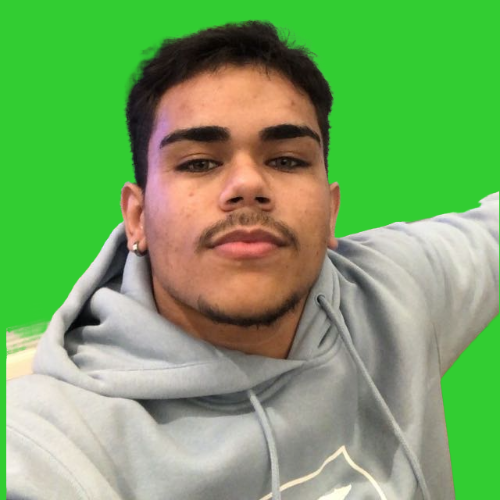
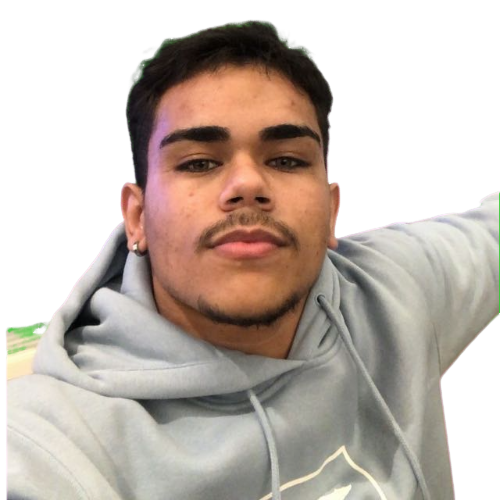
modificando apresentacao

diff --git a/js/script.js b/js/script.js
@@ -1,3 +1,5 @@
+//Adicionando link no "João Victor", link no meu nome
+
 const hamMenuBtn = document.querySelector('.header__main-ham-menu-cont')
 const smallMenu = document.querySelector('.header__sm-menu')
 const headerHamMenuBtn = document.querySelector('.header__main-ham-menu')
@@ -5,25 +7,90 @@ const headerHamMenuCloseBtn = document.querySelector('.header__main-ham-menu-clo
 const headerSmallMenuLinks = document.querySelectorAll('.header__sm-menu-link')
 
 hamMenuBtn.addEventListener('click', () => {
-    if (smallMenu.classList.contains('header__sm-menu--active')) {
-        smallMenu.classList.remove('header__sm-menu--active')
-    } else {
-        smallMenu.classList.add('header__sm-menu--active')
-    }
-    if (headerHamMenuBtn.classList.contains('d-none')) {
-        headerHamMenuBtn.classList.remove('d-none')
-        headerHamMenuCloseBtn.classList.add('d-none')
-    } else {
-        headerHamMenuBtn.classList.add('d-none')
-        headerHamMenuCloseBtn.classList.remove('d-none')
-    }
+  if (smallMenu.classList.contains('header__sm-menu--active')) {
+    smallMenu.classList.remove('header__sm-menu--active')
+  } else {
+    smallMenu.classList.add('header__sm-menu--active')
+  }
+  if (headerHamMenuBtn.classList.contains('d-none')) {
+    headerHamMenuBtn.classList.remove('d-none')
+    headerHamMenuCloseBtn.classList.add('d-none')
+  } else {
+    headerHamMenuBtn.classList.add('d-none')
+    headerHamMenuCloseBtn.classList.remove('d-none')
+  }
 })
 const headerLogoConatiner = document.querySelector('.header__logo-sub')
 headerLogoConatiner.addEventListener('click', () => {
-    location.href = 'https://putzjuau.github.io/Portfolio/'
+  location.href = 'https://putzjuau.github.io/Portfolio/'
 })
 
 const footerLink = document.querySelector('.link_footer')
 footerLink.addEventListener('click', () => {
-    location.href = 'https://putzjuau.github.io/Portfolio/'
+  location.href = 'https://putzjuau.github.io/Portfolio/'
 })
+
+const imgHeader = document.querySelector(".header__logo-img-cont");
+function themePhotografy() {
+  setTimeout(() => {
+    if (imgHeader.classList.contains("transparent-bg")){
+      imgHeader.classList.remove('transparent-bg');
+
+    } else {
+      imgHeader.classList.add("transparent-bg");
+    }
+  }, 1000);
+} 
+setInterval(themePhotografy, 10000);
+
+
+
+
+
+//mudanca de tema da pagina
+const themeToggle = document.getElementById('theme-toggle');
+themeToggle.addEventListener('click', () => {
+
+  //TODO:    Alterar o tema
+  const currentTheme = document.documentElement.getAttribute('data-theme');
+  const newTheme = currentTheme === 'escuro' ? 'claro' : 'escuro';
+  document.documentElement.setAttribute('data-theme', newTheme);
+
+
+  //?       Função a qual foi feita para trocar a imagem do tema( O sol e a lua)
+  otherImgTheme();
+
+});
+// ? sadfassadasdsadasdsa
+
+function otherImgTheme() {
+
+  const imgThemeElement = document.getElementById("img-theme");
+  const currentTheme = document.documentElement.getAttribute('data-theme');
+  const nightTheme = document.getElementById("img-theme-night");
+  const dayTheme = document.getElementById("img-theme-day");
+
+  if (currentTheme === "escuro") {
+    imgThemeElement.src = nightTheme.src;
+  }
+  if (currentTheme === "claro") {
+    imgThemeElement.src = dayTheme.src;
+  }
+
+}
+
+//funcao que deixa padrao o tema claro primeiro
+function setDefaultTheme() {
+  const currentTheme = document.documentElement.getAttribute('data-theme');
+
+  //? vericaremos se o data-theme fui atribuido ao documento
+  if (!currentTheme) { //todo:       Como de inicio não é verdadeiro, o data theme 
+    document.documentElement.setAttribute('data-theme', 'claro'); // 'claro' é o tema padrão, você pode alterar para 'escuro' se preferir
+    const imgThemeElement = document.getElementById("img-theme");
+    const dayTheme = document.getElementById("img-theme-day");
+    imgThemeElement.src = dayTheme.src;
+  }
+}
+
+setDefaultTheme();
+

diff --git a/css/style.css b/css/style.css
@@ -4,8 +4,9 @@
     --verdeEscuro: rgb(45, 166, 63);
     --preto: #0D0D0D;
     --fonte-color: #D9D9D9;
-    --header-color: #050505;
+    --header-color: linear-gradient(rgba(0, 0, 0, 0.9), rgba(10, 10, 10, 0.9)), #050505;
     --header-color-fonte: #333;
+    --back-about: linear-gradient(rgba(0, 0, 0, 0.5), rgba(10, 10, 10, 0.9)), rgba(28, 28, 28, 255);
 
     /* O TAMANHO PADRÃO DA FONTE/ROOT VEM 16PX*/
 }
@@ -61,11 +62,11 @@ ul {
 }
 
 .apresentation {
-    background: linear-gradient(rgba(0, 0, 0, 0.9), rgba(10, 10, 10, 0.5)), url("https://i.pinimg.com/originals/43/1a/37/431a378a36245dd2be6e870355af17f1.jpg");
+    /**/
+    background: linear-gradient(rgba(0, 0, 0, 0.7), rgba(10, 10, 10, 0.9)), url("https://images.pexels.com/photos/247791/pexels-photo-247791.png?auto=compress&cs=tinysrgb&w=1260&h=750&dpr=1");
 
+    /* Define a transição suave de 1 segundo para o background */
 }
-
-
 
 .apresentacao {
     min-height: 70rem;
@@ -159,7 +160,7 @@ a:hover {
 header {
     position: absolute;
     width: 100%;
-    background: var(--header-color);   
+    background: var(--header-color);
     box-shadow: 0 10px 100px rgba(0, 0, 0, .1);
 }
 
@@ -178,17 +179,31 @@ header {
     transition: color .3s;
 }
 
+.header__logo-container:hover .header__logo-img-cont {
+    background-color: green;
+    transition: 0.1s ;
+}
+
 .header__logo-container:hover {
     color: var(--verdeEscuro);
 }
+.header__logo-img-cont {
+    background-color:green;
+    transition: 2s ease-in-out;
+}
+.header__logo-img-cont.transparent-bg {
+    background-color: transparent;
+    transition: 2s ease-in-out;
+}
+
 
 .header__logo-img-cont {
+
     width: 5rem;
     height: 5rem;
     border-radius: 50px;
     overflow: hidden;
     margin-right: 1.5rem;
-    background: #7843e9;
 }
 
 .header__content {
@@ -210,7 +225,7 @@ header {
     margin-bottom: 3rem
 }
 
-.header_link{
+.header_link {
     font-weight: 700;
     color: var(--fonte-color);
     text-transform: uppercase;
@@ -259,7 +274,8 @@ header {
     visibility: hidden;
     opacity: 0
 }
-a{
+
+a {
     list-style-type: ;
 }
 
@@ -338,8 +354,7 @@ a{
 
 .about_container {
     /**/
-    background: linear-gradient(to right, rgb(2, 85, 14), rgb(6, 6, 7));
-    height: 160vh;
+    background: var(--back-about);
     min-height: 60rem;
     max-height: 100rem;
     padding-top: 2rem;
@@ -370,7 +385,7 @@ a{
     border-bottom: rgb(120, 67, 233, 0.5);
     border-style: groove;
     border-color: rgba(14, 247, 65, 0.3);
-    border-bottom-color:transparent;
+    border-bottom-color: transparent;
 }
 
 .about_container-img {

diff --git a/js/frase.js b/js/frase.js
@@ -1,29 +1,65 @@
-// Função para simular o efeito de escrita
+// Função para simular o efeito de escrita\
+
+const textoParaEscrever = 'João Victor';
+const elementoTexto = document.querySelector(".text_init")
+const elementoTextoSegundario = document.querySelector(".text_primary_stack");
+
+elementoTextoSegundario.style.fontStyle = 'oblique';
+elementoTextoSegundario.style.color = 'green';
+
 function escreverTexto(elemento, texto) {
   let textoAtual = "";
   let i = 0;
 
 
-  const escreverIntervalo = setInterval(() => {
+  const escreverIntervalo = setInterval(() => { //Escrevendo com um intervalo menor
     textoAtual += texto[i];
     elemento.innerText = textoAtual;
     i++;
 
-    if (i >= texto.length) {
+    if (i >= texto.length) { //caso tenha chegado ao final, executar
       clearInterval(escreverIntervalo);
+      escreverTextoStack(elementoTextoSegundario);
     }
-  }, 100)
+  }, 200)
 
 }
 
 // Obtendo o elemento onde o texto será escrito
 
 // Texto que será escrito
-const textoParaEscrever = 'João Victor';
-
-
-const elementoTexto = document.querySelector(".text_init")
 
 // Iniciar o efeito de escrita
 escreverTexto(elementoTexto, textoParaEscrever);
+
+
+
+
+
+function escreverTextoStack(elemento){
+  let textoAtual = "";
+  const stacks = ['Back-End', 'Full Stack'];
+  i = 0;
+  j = 0;
+
+  const escreverIntervalo = setInterval(() => { //Escrevendo com um intervalo menor
+    textoAtual += stacks[j][i];
+    elemento.innerText = textoAtual;
+    i++;
+
+    if (i >= stacks[j].length) {
+      //caso tenha chegado ao final, executar
+      setTimeout(() => {
+        textoAtual = "";
+        i = 0;
+        j = (j + 1) % stacks.length; // Avança para a próxima palavra
+        
+      },100);
+    }
+    
+    if (j >= stacks.length) {
+      j = 0; // Volta ao início quando todas as palavras foram exibidas
+    }
+  }, 400);
+}
 

diff --git a/index.html b/index.html
@@ -33,7 +33,7 @@
       <!--CONTAINER PARTE DA FOTO E NOME LADO ESQUERDO-->
 
       <div class="header__logo-container">
-        <img src="Imagens/My pcitures/pic_header.png" class="header__logo-img-cont ">
+        <img src="Imagens/My pcitures/pic_header.png" class="header__logo-img-cont">
         <span class="header__logo-sub">João Victor</span>
       </div>
 
@@ -84,7 +84,8 @@
   </header>
 
   <!-- IMAGEM CENTRAL MINHA --->
-  <section class="apresentation"><div class="layer"></div>
+  <section class="apresentation">
+    <div class="layer"></div>
     <div class="apresentacao">
       <div class="apresentation_content" id="home">
 
@@ -92,7 +93,7 @@
 
         <div class="apresentation_info">
           <p class="text_primary">
-            Desenvolvedor Jr Back-end.
+            Desenvolvedor Jr  <span class="text_primary_stack"></span>
           </p>
         </div>
 
